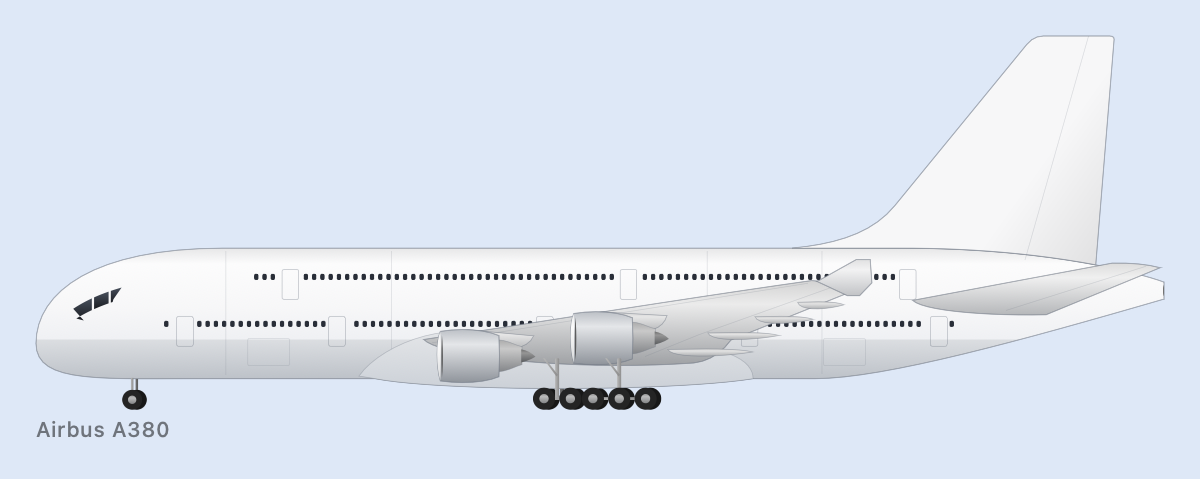
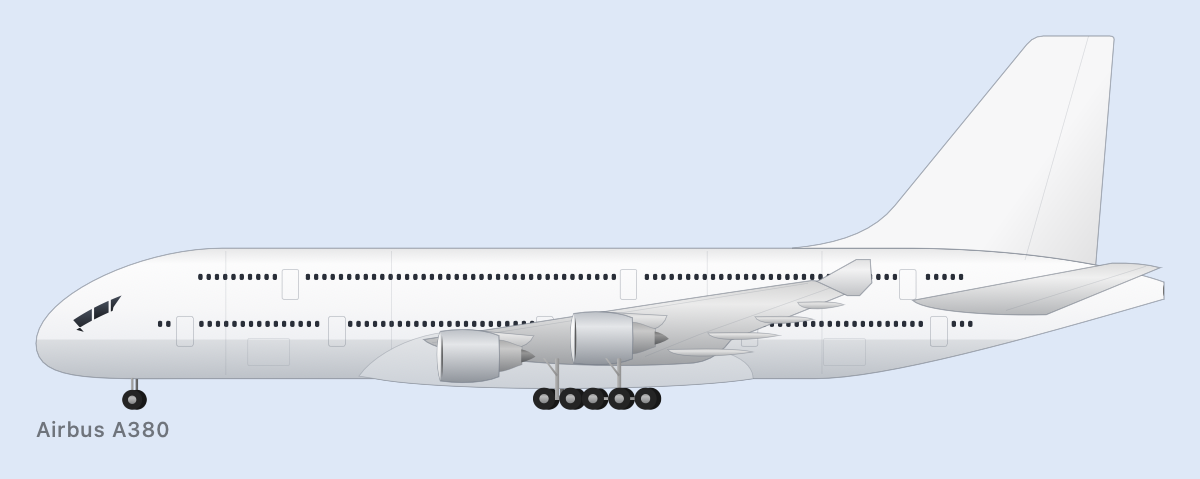
fix(app): A380 decks, ATR high wing and KLM crown on the fin
A380: both decks windowed nose to tail, gentler crown from the nose.
ATR: the near nacelle hangs from a deeper high wing drawn over it, axis
just under the crown.
KLM: the crown symbol sat on a canvas twice its width (192 by 54 px),
failing the fin art aspect and 64 px height rules; viewBox cropped to the
crown and re-rendered (192 by 109). Livery snapshots seed the wordmark as
production does.

diff --git a/Packages/FlightKit/Sources/FlightKit/UI/Aircraft/AircraftGeometry.swift b/Packages/FlightKit/Sources/FlightKit/UI/Aircraft/AircraftGeometry.swift
@@ -287,7 +287,7 @@ extension AirlinerSpec {
             panes = [(0.50, 0.61), (0.625, 0.715), (0.73, 0.80)]
         case .a220: noseTip = 0.30; upperK = (0.30, 0.50); lowerK = 0.24
             panes = [(0.46, 0.585), (0.60, 0.70), (0.715, 0.80)]
-        case .a380: noseTip = 0.27; upperK = (0.40, 0.32); lowerK = 0.30
+        case .a380: noseTip = 0.27; upperK = (0.36, 0.56); lowerK = 0.30
             panes = [(0.20, 0.30), (0.312, 0.39), (0.402, 0.46)]
         case .b747: noseTip = 0.29; upperK = (0.30, 0.42); lowerK = 0.25
             panes = [(0.47, 0.555), (0.567, 0.635), (0.647, 0.70)]
@@ -315,7 +315,7 @@ extension AirlinerSpec {
         let rootLE = wingRootLE, cr = wingRootChord
         // A high wing sits in a fairing on the crown.
         let dorsal: Cubic? = high ? {
-            let a = rootLE - cr * 0.45, b = rootLE + cr * 1.55, rise = 0.10 * D
+            let a = rootLE - cr * 0.55, b = rootLE + cr * 1.65, rise = 0.16 * D
             return Cubic(p0: p(a, yt), p1: p(a + (b - a) * 0.22, yt + rise * 1.33), p2: p(b - (b - a) * 0.40, yt + rise * 1.33), p3: p(b, yt))
         }() : nil
         func topY(_ x: Double) -> Double {
@@ -568,10 +568,11 @@ extension AirlinerSpec {
         }
 
         // Wing -----------------------------------------------------------------------------------
-        let zr = high ? yt - 0.02 * D : yb + 0.30 * D
+        // A high wing sits on the crown in its fairing; a low wing under the barrel.
+        let zr = high ? yt + 0.05 * D : yb + 0.30 * D
         let tipLE = rootLE + wingSweep
         let zt = zr + wingRise
-        let depthRoot = (high ? 0.15 : D > 5 ? 0.24 : 0.19) * D, depthTip = max(0.10, 0.035 * D)
+        let depthRoot = (high ? 0.20 : D > 5 ? 0.24 : 0.19) * D, depthTip = max(0.10, 0.035 * D)
         let wa = p(rootLE, zr), wb = p(tipLE, zt)
         let wc = p(tipLE + wingTipChord, zt - depthTip)
         let rootTE = p(rootLE + cr, zr - depthRoot * 0.75)
@@ -622,7 +623,8 @@ extension AirlinerSpec {
             add(.wing, .fairing, fairing)
         }
 
-        add(.wing, .wing, wingPath(dx: 0, dy: 0))
+        // A high wing goes on after the near nacelle that hangs from it (see the turboprop case below).
+        if !high { add(.wing, .wing, wingPath(dx: 0, dy: 0)) }
         // Slat line just behind the leading edge, flap line ahead of the trailing edge.
         if !high {
             var slat = Path()
@@ -634,7 +636,7 @@ extension AirlinerSpec {
         flap.move(to: p(rootTE.x - cr * 0.18, rootTE.y + 0.05 * D))
         flap.addLine(to: p(wk.x - cr * 0.12, wk.y + 0.04 * D))
         flap.addLine(to: p(wc.x - wingTipChord * 0.45, wc.y + 0.012 * D))
-        add(.wing, .panelLine, flap)
+        if !high { add(.wing, .panelLine, flap) }
 
         // Flap track fairings: small pods hanging under the trailing edge, pointed aft.
         let pods: [Double] = high ? [] : family.isWidebody || family == .other && D > 5 ? [0.18, 0.40, 0.60, 0.78] : [0.22, 0.48, 0.74]
@@ -806,10 +808,16 @@ extension AirlinerSpec {
             engine(x0: x0, z: z + 0.03 * D, rear: true, layer: .engineFar)
             engine(x0: x0, z: z, rear: true, layer: .engine)
         case .turboprop:
-            // Axis just under the wing; the nacelle top runs into the wing's lower surface.
-            let z = zr - depthRoot * 0.35 - engineDiameter * 0.5
+            // The nacelle hangs from the wing: its top tucks into the wing's lower surface, so the axis sits
+            // just under the crown and the propeller turns ahead of the wing, not low on the cabin.
+            let z = zr - depthRoot * 0.6 - engineDiameter * 0.36
             turboprop(x0: eX + 0.12, z: z + 0.05 * D, layer: .engineFar)
             turboprop(x0: eX, z: z, layer: .engine)
+        }
+        if high {
+            // The near high wing over the nacelle's top, so the engine reads as hanging under it.
+            add(.engine, .wing, wingPath(dx: 0, dy: 0))
+            add(.engine, .panelLine, flap)
         }
 
         // Gear ----------------------------------------------------------------------------------

diff --git a/Packages/FlightKit/Tests/FlightKitTests/AircraftSnapshotTests.swift b/Packages/FlightKit/Tests/FlightKitTests/AircraftSnapshotTests.swift
@@ -105,8 +105,9 @@ struct AircraftSnapshotTests {
     /// The entries from the remaining families, on their own sheet.
     static let remainingFamilies: Set<String> = ["a220", "a330", "a380", "b747", "b757", "b767", "ejet", "crj", "atr"]
 
-    /// What production serves as `.logo`: the Commons symbol when one was cropped
-    /// (assets/logos/commons/symbol/png), else the full logo (a wordmark, which never goes on a fin).
+    /// What production serves: `.logo` is the Commons symbol when one was cropped
+    /// (assets/logos/commons/symbol/png), else the full logo (a wordmark, which never goes on a fin);
+    /// `.wordmark` is the full logo, so a symbol is told apart from it as in the app.
     static func brandService() -> FakeBrandAssetService {
         var seeded: [(icao: String, kind: BrandAssetKind, asset: BrandAsset)] = []
         for icao in Set(liveryMatrix.map(\.icao)) {
@@ -114,6 +115,9 @@ struct AircraftSnapshotTests {
             let full = repoRoot.appending(path: "assets/logos/commons/png/\(icao).png")
             if let data = (try? Data(contentsOf: symbol)) ?? (try? Data(contentsOf: full)) {
                 seeded.append((icao, .logo, BrandAsset(data: data, format: "png", version: "snapshot")))
+            }
+            if let word = try? Data(contentsOf: full) {
+                seeded.append((icao, .wordmark, BrandAsset(data: word, format: "png", version: "snapshot")))
             }
         }
         return FakeBrandAssetService(seeded: seeded)

diff --git a/Packages/FlightKit/Tests/FlightKitTests/AircraftGeometryTests.swift b/Packages/FlightKit/Tests/FlightKitTests/AircraftGeometryTests.swift
@@ -159,8 +159,19 @@ struct AircraftGeometryTests {
         let hull = b747.parts[.hull]!.boundingRect
         #expect(hull.maxY > b747.fuselageTopM + 1)
         // High wing: the ATR's wing sits on the crown.
-        let wing = atr.shapes.first { $0.layer == .wing && $0.part == .wing }!.path.boundingRect
+        // Its near wing is drawn over the nacelle that hangs from it.
+        let wing = atr.shapes.first { $0.layer == .engine && $0.part == .wing }!.path.boundingRect
         #expect(wing.midY > atr.fuselageTopM - 0.5)
+        // The near nacelle hangs from that wing, high on the barrel, not low over the cabin windows.
+        let nacelle = atr.shapes.first { $0.layer == .engine && $0.part == .nacelle }!.path.boundingRect
+        #expect(nacelle.maxY > wing.minY, "nacelle top tucked under the wing")
+        #expect(nacelle.midY > (atr.fuselageBottomM + atr.fuselageTopM) / 2 + 0.3, "nacelle axis \(nacelle.midY)")
+        // The A380's upper deck is windowed as far fore and aft as the main deck.
+        let a380 = AircraftGeometry.geometry(.a380)
+        let windows = a380.shapes.filter { $0.part == .window }.map { $0.path.boundingRect }
+        let upper = windows.filter { $0.minY > a380.cheatlineBand.upperBound + 1 }
+        let lower = windows.filter { $0.maxY <= a380.cheatlineBand.upperBound + 1 }
+        #expect(upper.map(\.minX).min()! < 12 && upper.map(\.maxX).max()! > lower.map(\.maxX).max()! - 1.5)
     }
 
     @Test func everyPathInsideTheBox() {

diff --git a/Packages/FlightKit/Sources/FlightKit/UI/Aircraft/Families/A380.swift b/Packages/FlightKit/Sources/FlightKit/UI/Aircraft/Families/A380.swift
@@ -22,9 +22,11 @@ enum A380 {
             noseGearX: 6.2, mainGearX: rootLE + 12.6, noseTyre: 0.64, mainTyre: 0.71, mainAxles: 3, axleSpacing: 1.7,
             doors: doors, cargoDoors: [15.0, L - 20.6], cargoDoorWidth: 2.7,
             windowPitch: 0.533, windowWidth: 0.28, windowHeight: 0.40, windowLine: 0.42,
-            firstWindow: 8.4, lastWindowFromTail: 13.6
+            firstWindow: 8.0, lastWindowFromTail: 12.2
         )
-        spec.upperDeck = .init(windowY: yb + 0.78 * D, firstWindow: 14.2, lastWindow: L - 15.6)
+        // Both decks are windowed nose to tail: the upper row starts just behind the cockpit and runs as far
+        // back as the main deck's.
+        spec.upperDeck = .init(windowY: yb + 0.78 * D, firstWindow: 10.6, lastWindow: L - 12.8)
         spec.outboardEngine = (inletFromWing: 9.6, clearance: 2.9)
         spec.wingGear = (dx: -4.0, axles: 2)
         return spec.build()

diff --git a/Packages/FlightKit/Tests/FlightKitTests/LiveryTests.swift b/Packages/FlightKit/Tests/FlightKitTests/LiveryTests.swift
@@ -192,6 +192,15 @@ struct LiveryTests {
         AircraftArtMemo.shared.removeAll()
     }
 
+    /// The KLM crown once sat on a canvas twice its width (192 by 54 px): too wide and too short for the fin.
+    /// Cropped to the crown it passes, told apart from the wordmark.
+    @MainActor @Test func klmCrownGoesOnTheFin() async {
+        AircraftArtMemo.shared.removeAll()
+        let art = await FinArt.load(icao: "KLM", service: FakeBrandAssetService.bundled())
+        #expect(art != nil)
+        AircraftArtMemo.shared.removeAll()
+    }
+
     @Test func aircraftImagePrefersProvider() async {
         let reference = ReferenceData.bundled()
         let side = Self.asset(width: 400, height: 100)
